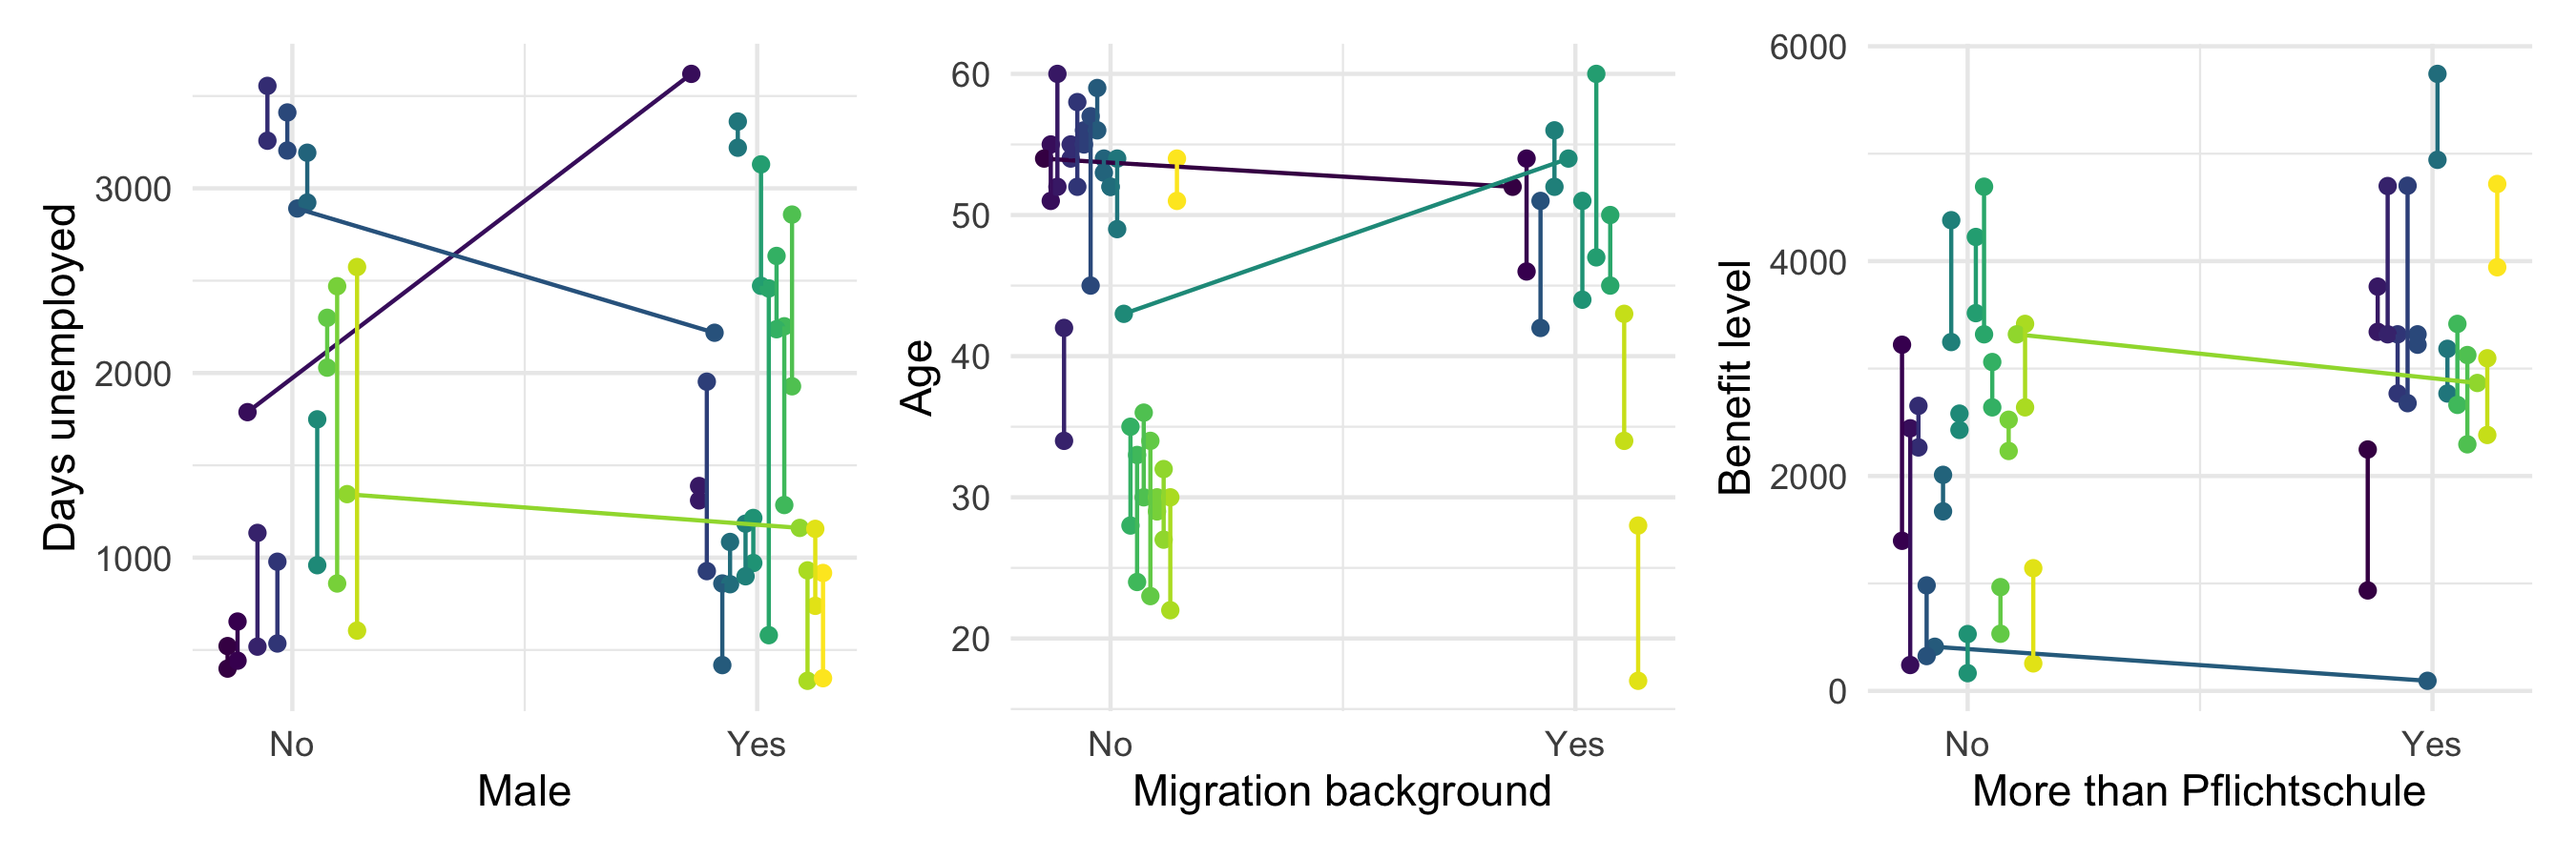
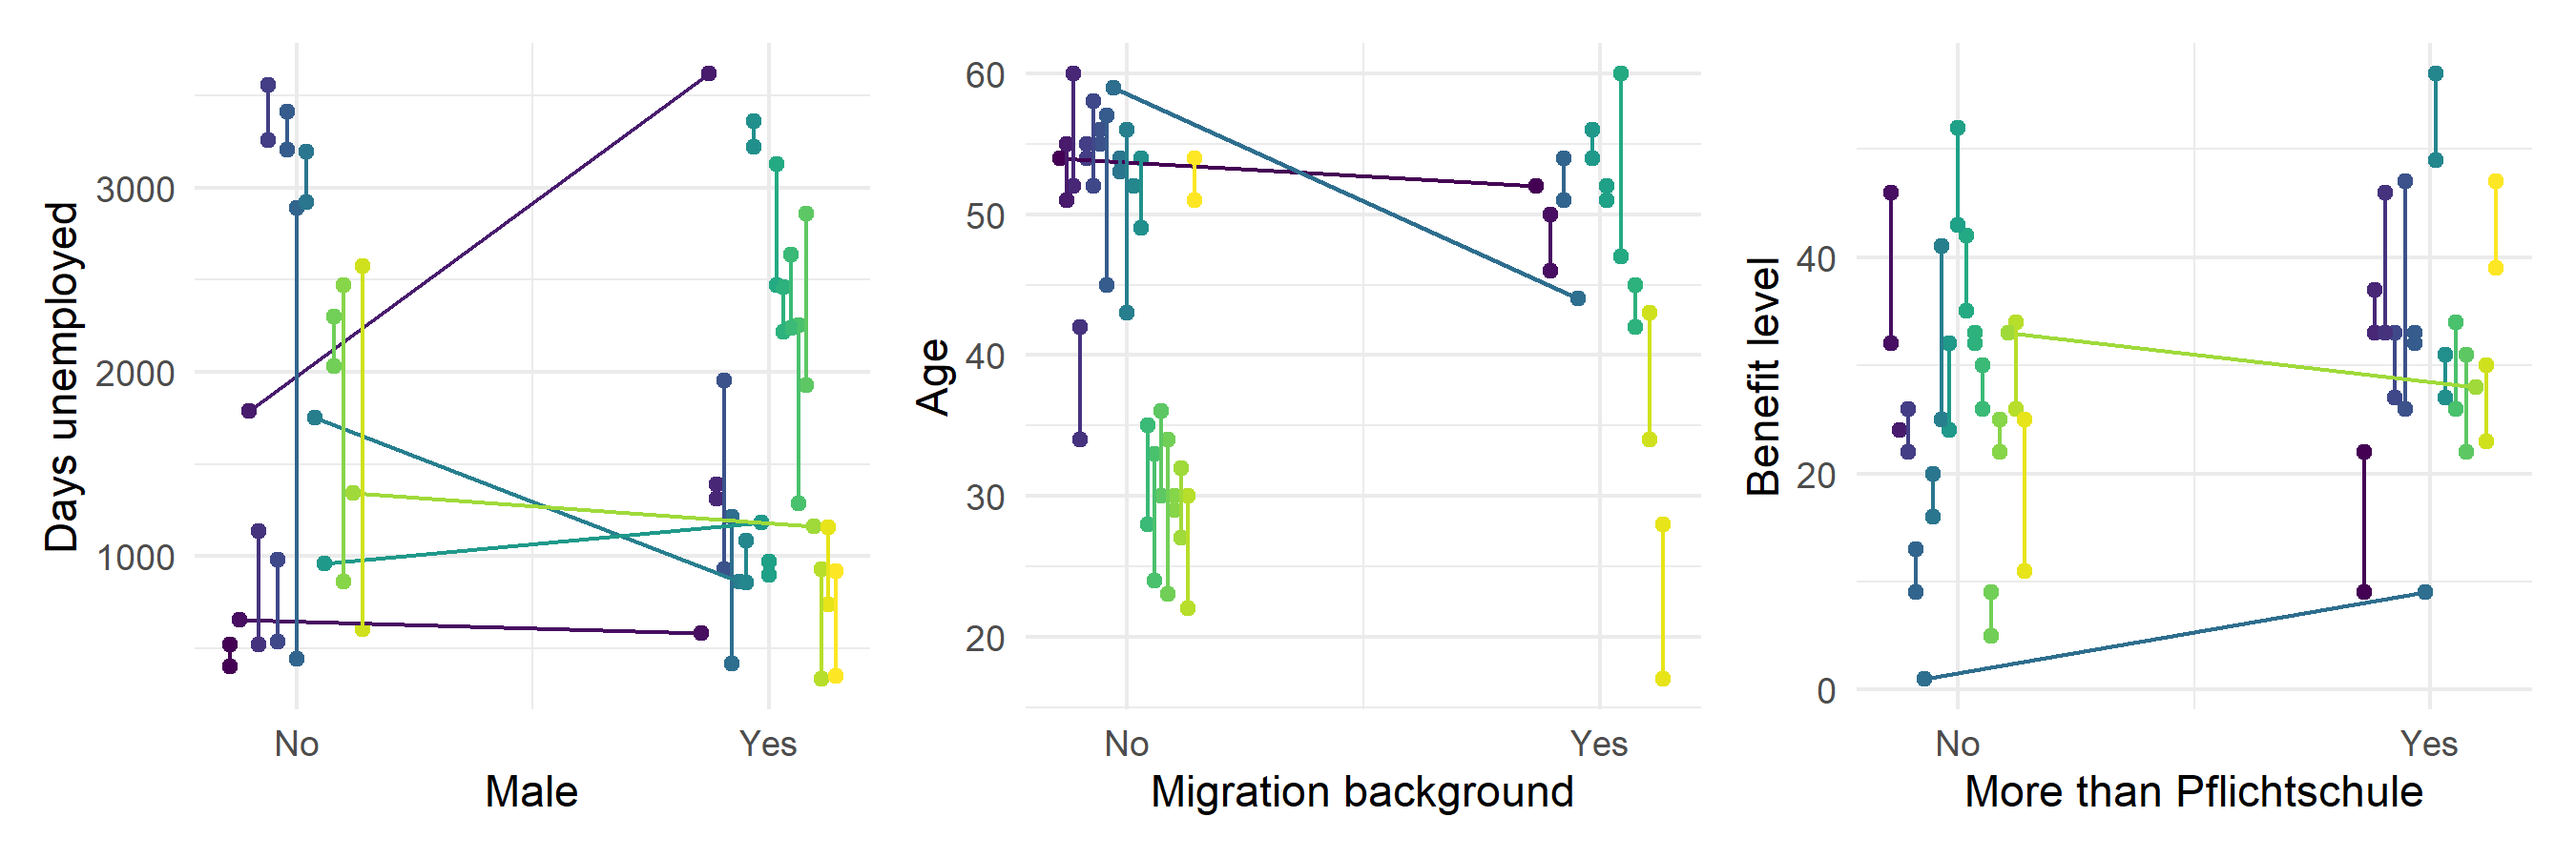
fix: decimal Tagsatz

diff --git a/Data/wave_comparison_ttests.tex b/Data/wave_comparison_ttests.tex
@@ -4,11 +4,11 @@
 Covariate & Mean wave 1 & Mean wave 2 & Difference & T-statistic & P-value\\
 \midrule
 male & 0.517 & 0.621 & -0.103 & -0.786 & 0.435\\
-age & 44.379 & 45.138 & -0.759 & -0.247 & 0.806\\
-migration background & 0.276 & 0.345 & -0.069 & -0.559 & 0.578\\
+age & 44.207 & 45.310 & -1.103 & -0.359 & 0.721\\
+migration background & 0.310 & 0.310 & 0.000 & 0.000 & 1.000\\
 education & 0.448 & 0.448 & 0.000 & 0.000 & 1.000\\
 disability & 0.310 & 0.310 & 0.000 & 0.000 & 1.000\\
-benefit level & 2695.759 & 2579.517 & 116.241 & 0.324 & 0.747\\
-days unemployed & 1632.103 & 1719.586 & -87.483 & -0.325 & 0.746\\
+benefit level & 28.931 & 28.621 & 0.310 & 0.099 & 0.922\\
+days unemployed & 1672.241 & 1679.448 & -7.207 & -0.027 & 0.979\\
 \bottomrule
 \end{tabular}
